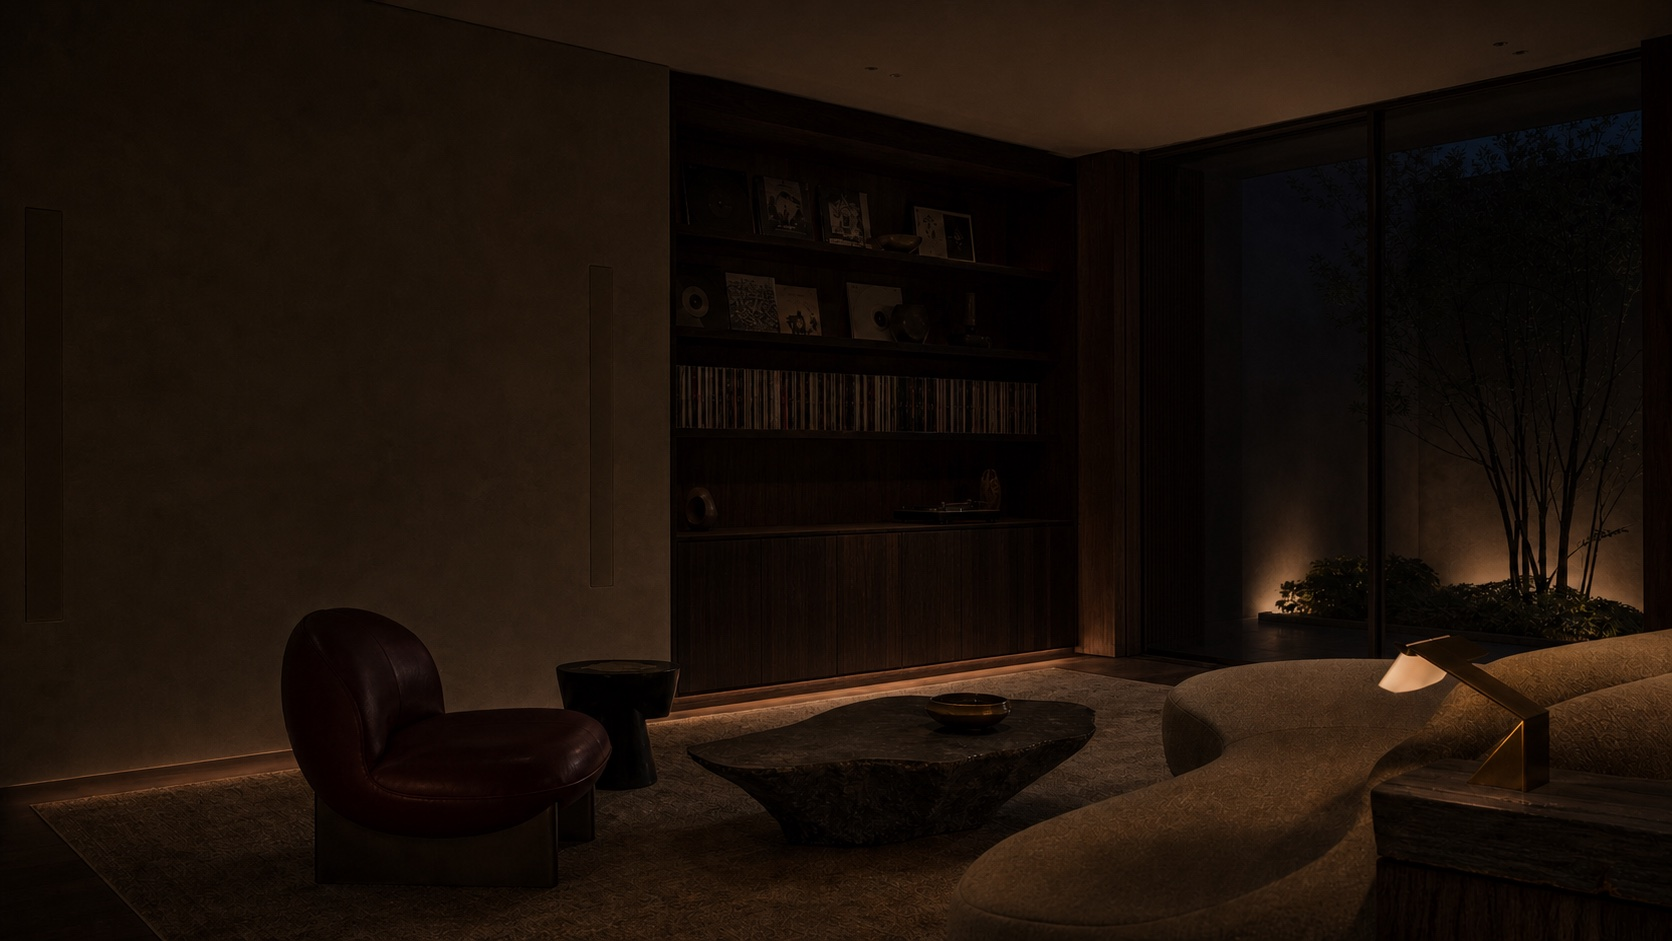
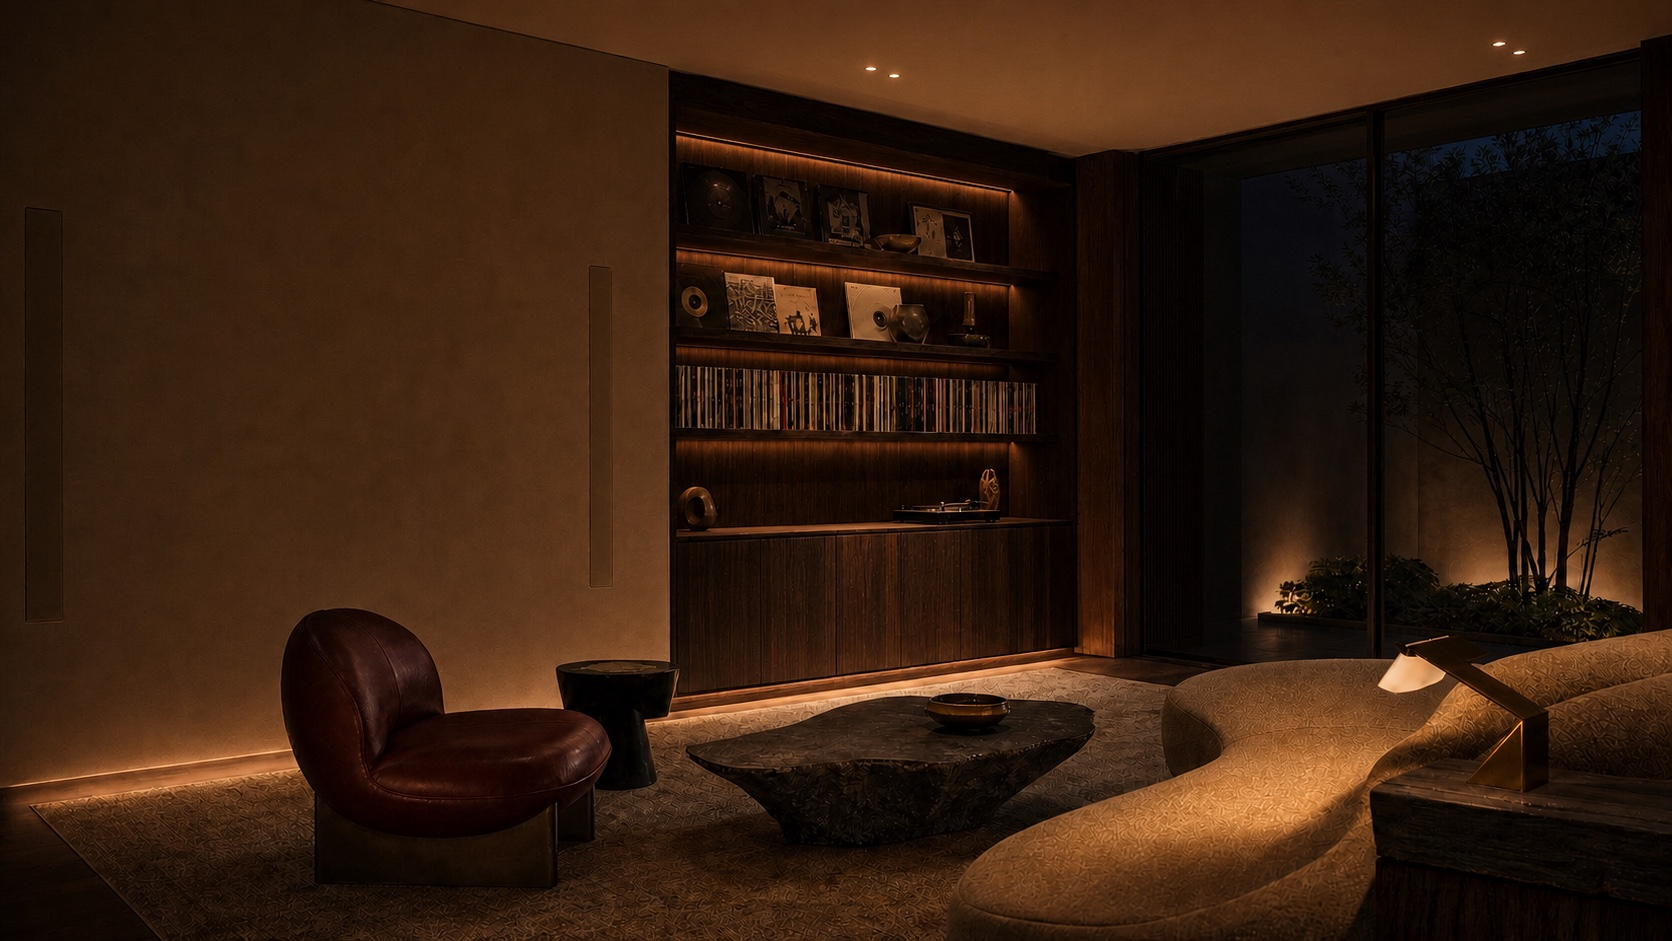
Improve City Penthouse night lighting

diff --git a/app/CityRhythm.tsx b/app/CityRhythm.tsx
@@ -38,10 +38,10 @@ const cityMoments = [
     index: "04",
     time: "23:28",
     name: "Quiet secure",
-    line: "Sound sleeps, glass darkens and a four-percent path remains.",
+    line: "Sound sleeps, glass darkens and layered light keeps the room beautifully usable.",
     image: "/images/city-night.jpg",
     status: "SHELL / SECURE",
-    readings: [["AUDIO", "OFF"], ["PRIVACY", "NIGHT"], ["PATH", "4%"]],
+    readings: [["AUDIO", "OFF"], ["PRIVACY", "NIGHT"], ["READING", "68%"]],
   },
 ];
 
